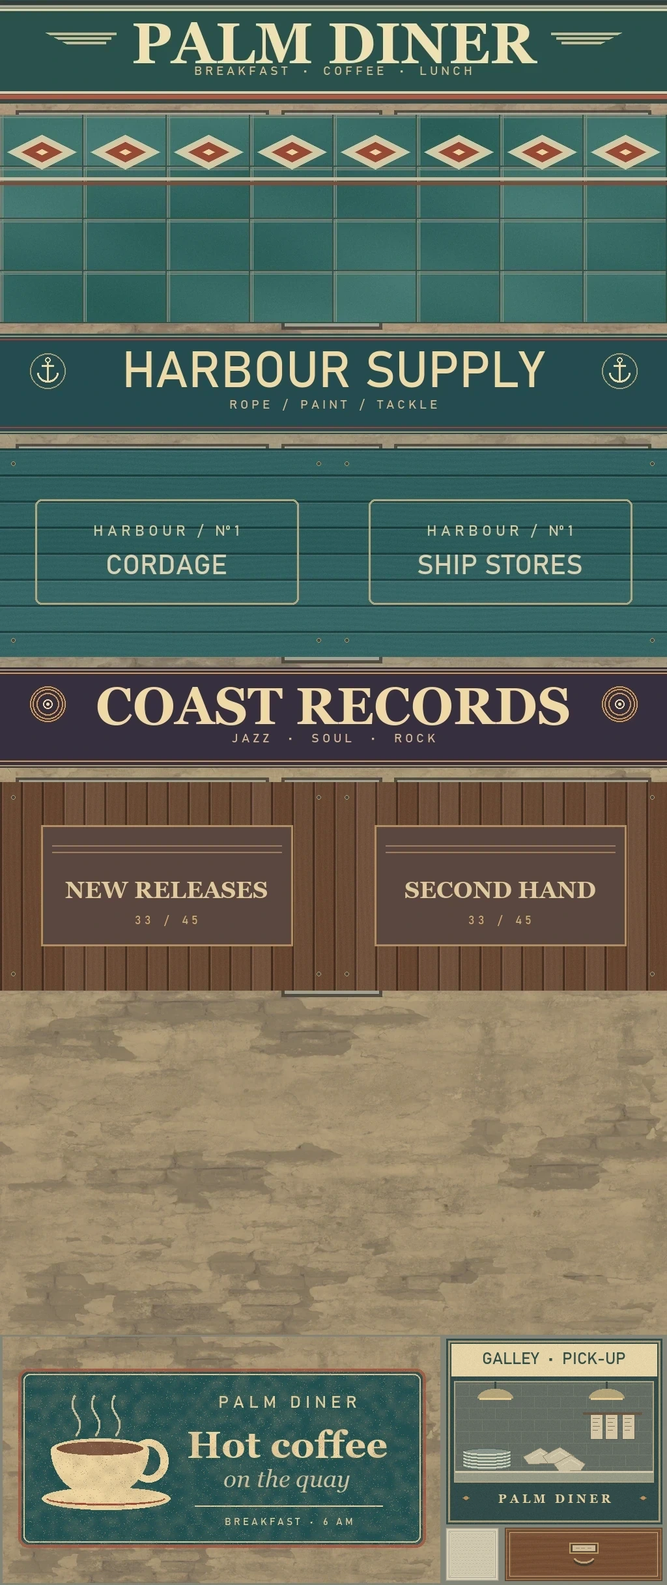
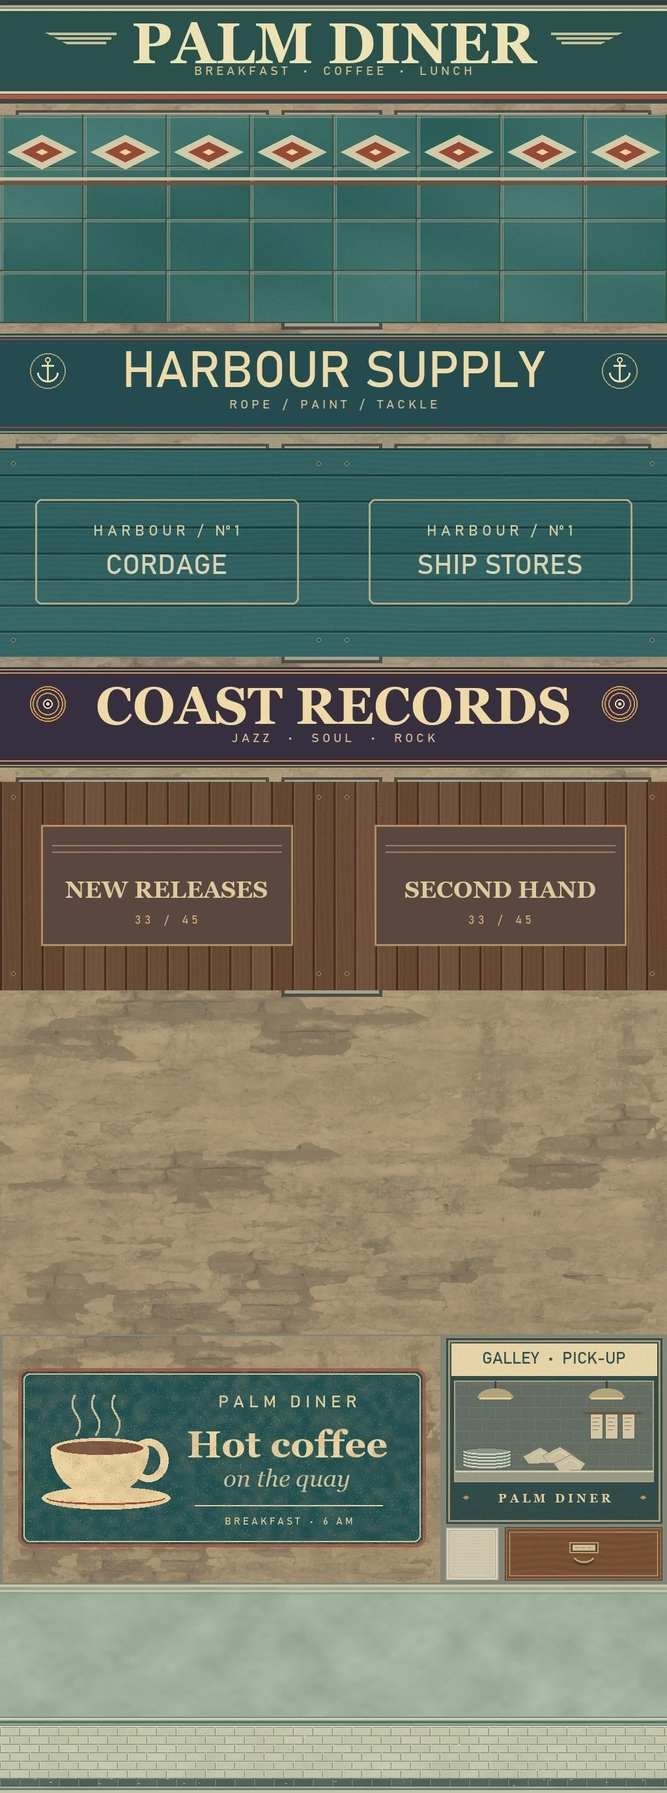
Finish the diner walls and alpine boulder shading

diff --git a/client/ReleaseNotes.tsx b/client/ReleaseNotes.tsx
@@ -6,16 +6,16 @@ const storageKey='eiserne-front-changelog';
 let acknowledgedInSession=false;
 const changes=[
  ['Island und Zeitreise','In der Lobby wählst du die Insel oder eine der drei historischen Karten. Kroenen ist in beiden Welten spielbar. Die übrigen Bonusfiguren und die Sprengrennwagen gehören zur Insel.'],
- ['Begehbare Harbour Road','Östlich der Radarstation liegen Palm Diner, Harbour Supply und Coast Records. Durch die offenen Eingänge gelangst du zu Sitznischen, Warenregalen und Plattenkisten. Die Läden haben eigene Böden, gerahmte Drucke, Verpackungen und Einrichtung. Bei Harbour Supply hängt ein illustrierter Musterkasten für Schiffszubehör samt aufgeschossener Leine. Im Palm Diner stehen Ketchup und Senf auf einem Emailletablett. Über dem Tresen hängt die illustrierte Frühstückskarte. Draußen greifen der petrolfarbene Fliesensockel und das neue Fassadenschild die Farben des Innenraums auf. Die Westwand trägt eine gemalte Kaffeereklame. Zur Hafenseite gibt es eine Küchenausgabe mit Emailleablage, belegten Broten und Wärmelampen. Coast Records hat einen Hörplatz mit Holzlautsprechern und dem eigens gestalteten Albumcover „Low Water“. An den Wänden hängen vier weitere illustrierte Cover und die dazugehörigen Schallplatten. Die Decke hat perforierte Akustikkassetten. Plattenkisten und Tresen haben Holzmaserung, Messinggriffe und Karteischilder. Harbour Supply und Coast Records haben eigene Fassadenschilder und beschriftete Schaufenstersockel. Pendelleuchten werfen warme Lichtkegel, und die Schaufenster haben profilierte Rahmen.'],
+ ['Begehbare Harbour Road','Östlich der Radarstation liegen Palm Diner, Harbour Supply und Coast Records. Durch die offenen Eingänge gelangst du zu Sitznischen, Warenregalen und Plattenkisten. Die Läden haben eigene Böden, gerahmte Drucke, Verpackungen und Einrichtung. Bei Harbour Supply hängt ein illustrierter Musterkasten für Schiffszubehör samt aufgeschossener Leine. Im Palm Diner stehen Ketchup und Senf auf einem Emailletablett. Meergrüne Wände mit einem cremefarbenen Fliesensockel umgeben den Gastraum. Über dem Tresen hängt die illustrierte Frühstückskarte. Draußen greifen der petrolfarbene Fliesensockel und das neue Fassadenschild die Farben des Innenraums auf. Die Westwand trägt eine gemalte Kaffeereklame. Zur Hafenseite gibt es eine Küchenausgabe mit Emailleablage, belegten Broten und Wärmelampen. Coast Records hat einen Hörplatz mit Holzlautsprechern und dem eigens gestalteten Albumcover „Low Water“. An den Wänden hängen vier weitere illustrierte Cover und die dazugehörigen Schallplatten. Die Decke hat perforierte Akustikkassetten. Plattenkisten und Tresen haben Holzmaserung, Messinggriffe und Karteischilder. Harbour Supply und Coast Records haben eigene Fassadenschilder und beschriftete Schaufenstersockel. Pendelleuchten werfen warme Lichtkegel, und die Schaufenster haben profilierte Rahmen.'],
  ['Post vom Hafenamt','Die Geschäfte auf Island haben neue Aushänge. Außen an der Ostwand des Diners kannst du am Nachlassschalter mit E einen Bescheid ziehen. Auf Island hat die MP 40 einen Katzenaufsatz mit gedämpftem Schuss.'],
  ['Licht, Küste und Inselstraße','Ein fotografierter Himmel bestimmt Tageslicht und Reflexionen. Nebel und Nacht haben eigene Himmelsverläufe. Asphalt und Pflaster dunkeln bei Nebel durch Feuchtigkeit ab. Die Harbour Road führt durch eine ausgeschilderte Hafeneinfahrt zum Anleger und zum Hafenmeisterbüro. Durch die geöffneten Fenster siehst du das Funkpult, den Hafenplan und die Gezeitentafel. Hinter dem Anleger liegen Hafenkräne und der Frachter Tern Sound mit sichtbaren Stahlplattenstößen, Tiefgangsmarken, Ladebaum und Festmacherleinen. Die Hafenkräne haben verglaste Kabinen, Gegengewichte, Wartungsstege und Seilrollen mit Haken. Am Ufer rollen gestaffelte Wellen mit schmalen Schaumkanten über nassen Sand, entlang der Straße wachsen Sträucher. Die Harbour Road hat einen Zebrastreifen, Straßenabläufe und einen gusseisernen Schachtdeckel mit Hafenanker und Schriftprägung. Gefaste Bordsteine, Pflasterrinnen und versetzte Betonplatten geben den Gehwegen ein eigenes Profil. Felsen haben verwitterte Oberflächen mit dunkleren Gezeitenzonen. Auf Hoch und Ultra zeichnen sich Lichtmuster im flachen Wasser ab. Werkstätten und Depots tragen Dachaufbauten, Fallrohre und verwitterte Sprossenfenster. Die oberen Ladebuchten der Küstenwachen haben beschriftete Stahlrolltore mit Führungsschienen. Die Eingangsschilder sind unter den Vordächern wieder lesbar. Die Radarplattform hat jetzt einen Fachwerkmast, Funkkästen und neu markierte Zugänge.'],
- ['Historische Architektur','In Köln und im Güterviertel findest du Bahnhofsuhren, eiserne Vordächer und gemauerte Gesimse. Der Deutzer Bahnhof hat ein neues Vordach, Wandlaternen und eine Abfahrtstafel am Vorplatz. Die Buchhandlung am Domhof hat Rundbogenfenster, Sandsteinrahmen, schmiedeeiserne Balkone und ein Schriftband zur Brücke. Im Erdgeschoss zeigen gerahmte Schaufenster Bücher, Kölner Ansichten und Karten. Nachts leuchten die Laternen, der Fahrplan und einzelne Fenster der umliegenden Häuser. Hinter den Straßen setzen sich die Häuserzeilen bis zum Horizont fort. Höhere Grafikprofile zeigen zusätzliche Gauben und Dachaufbauten. Die Kölner Eisenbahnbrücke hat ausgearbeitete Stahlbögen, Querverbände und genietete Anschlussbleche. Ihre beiden Gleise haben profilierte Schienen, blanke Laufflächen und gemaserte Schwellen. Auf der Brücke und im Güterviertel stehen hölzerne Güterwagen mit sichtbarem Fahrwerk, Stahlstreben und Puffern. Am Rheinufer stehen Kaimauern mit Hochwassermarken, Auslässen und Landungstreppen. Die Wasseroberfläche zeigt Strömungsrippel. Natursteinplatten, Rinnen und Fahrspuren verbinden Kino und Güterbahnhof. Beladene Handkarren stehen im Güterhof. Die Gleise haben profilierte Schienen mit blanken Laufflächen, Befestigungen und gemaserten Schwellen. An Gleis 2 erkennst du die Paketannahme der Feldpost an ihrer Backsteinfassade und dem gemalten Schild. Am Ende der Gleise stehen ein Bahnwasserturm und ein Wasserkran. Am Turm sind gemauerte Bögen, vertiefte Fugen und genietete Bleche sichtbar. Über dem Kölner Rheinufer ragen die beiden gotischen Domtürme mit Maßwerk und abgestuften Spitzen auf. In den Alpen liegen gestaffelte Kalkgrate mit Schneefeldern hinter den Kasernen. Unterhalb der Grate stehen Tannen mit unregelmäßigen Zweigen, sichtbaren Stämmen und einzelnen Schneespuren. Die Felshänge schließen an den Passboden an, und die Tannen stehen auf der Geländeoberfläche. Schneeverwehungen, Radspuren und festgetretene Wege verbinden die Kasernen mit der Passstraße. Auf den Dächern liegt ungleichmäßig verteilter Schnee. Roche-la-Croix hat eine befestigte Betonfront und eine stählerne Beobachtungsglocke. Am Eingang zeigen sich Spuren der Holzschalung, Frostschäden und französische Bauwerksmarkierungen. Darüber sitzen Sprossenfenster mit zurückgeklappten Stahlläden unter einem Kalksteingiebel.'],
+ ['Historische Architektur','In Köln und im Güterviertel findest du Bahnhofsuhren, eiserne Vordächer und gemauerte Gesimse. Der Deutzer Bahnhof hat ein neues Vordach, Wandlaternen und eine Abfahrtstafel am Vorplatz. Die Buchhandlung am Domhof hat Rundbogenfenster, Sandsteinrahmen, schmiedeeiserne Balkone und ein Schriftband zur Brücke. Im Erdgeschoss zeigen gerahmte Schaufenster Bücher, Kölner Ansichten und Karten. Nachts leuchten die Laternen, der Fahrplan und einzelne Fenster der umliegenden Häuser. Hinter den Straßen setzen sich die Häuserzeilen bis zum Horizont fort. Höhere Grafikprofile zeigen zusätzliche Gauben und Dachaufbauten. Die Kölner Eisenbahnbrücke hat ausgearbeitete Stahlbögen, Querverbände und genietete Anschlussbleche. Ihre beiden Gleise haben profilierte Schienen, blanke Laufflächen und gemaserte Schwellen. Auf der Brücke und im Güterviertel stehen hölzerne Güterwagen mit sichtbarem Fahrwerk, Stahlstreben und Puffern. Am Rheinufer stehen Kaimauern mit Hochwassermarken, Auslässen und Landungstreppen. Die Wasseroberfläche zeigt Strömungsrippel. Natursteinplatten, Rinnen und Fahrspuren verbinden Kino und Güterbahnhof. Beladene Handkarren stehen im Güterhof. Die Gleise haben profilierte Schienen mit blanken Laufflächen, Befestigungen und gemaserten Schwellen. An Gleis 2 erkennst du die Paketannahme der Feldpost an ihrer Backsteinfassade und dem gemalten Schild. Am Ende der Gleise stehen ein Bahnwasserturm und ein Wasserkran. Am Turm sind gemauerte Bögen, vertiefte Fugen und genietete Bleche sichtbar. Über dem Kölner Rheinufer ragen die beiden gotischen Domtürme mit Maßwerk und abgestuften Spitzen auf. In den Alpen liegen gestaffelte Kalkgrate mit Schneefeldern hinter den Kasernen. Unterhalb der Grate stehen Tannen mit unregelmäßigen Zweigen, sichtbaren Stämmen und einzelnen Schneespuren. Auf den Kalkblöcken am Pass liegt Schnee auf den oberen Flächen und in flachen Rinnen. Die Felshänge schließen an den Passboden an, und die Tannen stehen auf der Geländeoberfläche. Schneeverwehungen, Radspuren und festgetretene Wege verbinden die Kasernen mit der Passstraße. Auf den Dächern liegt ungleichmäßig verteilter Schnee. Roche-la-Croix hat eine befestigte Betonfront und eine stählerne Beobachtungsglocke. Am Eingang zeigen sich Spuren der Holzschalung, Frostschäden und französische Bauwerksmarkierungen. Darüber sitzen Sprossenfenster mit zurückgeklappten Stahlläden unter einem Kalksteingiebel.'],
  ['Uniformen und Hände','Jacken und Hosen haben sichtbare Nähte und Falten. Auf Island tragen Figuren Tarnstoff, geformte Schutzwesten und gebogene Schutzgläser. Die beiden Island-Uniformen haben eigene Gesichter mit unterschiedlichem Bartwuchs, geformte Rucksäcke und sichtbare Schultergurte. Helme und Stiefel werfen vollständigere Schatten. Kontaktschatten unter den Stiefeln drehen mit der Figur und folgen geneigtem Gelände. Stiefel rollen beim Gehen und Joggen sichtbarer am Boden ab. Beim Seitwärtslaufen bleibt die Schrittführung stabil. Zeitreise-Uniformen tragen flach anliegendes Gurtzeug und geformte Taschen. In der Egoansicht siehst du Gewebestruktur, Ärmelbündchen und Details an den Händen. Hautfalten, Knöchel und abgenutzte Bündchen reflektieren unterschiedlich. Warme Raumlampen beleuchten auch Hände und Ärmel.'],
  ['Union-Lichtspiele','Im Güterviertel von Operation Abendrot steht am Platz der Alten Mühle das begehbare Kino mit Art-déco-Portal und KINO-Schriftpfeiler. Nachts sind die Schrift und der Eingang beleuchtet. Vor der Tür greift ein bündiges Terrazzo-Medaillon das Fächermotiv des Portals auf. Sechs historische Propagandaplakate hängen in den Schaukästen. Im Saal rahmt ein geraffter Samtvorhang mit Messingsims das Archivfoto von 1935. Vier Sitzreihen haben Polsterrücken, über ihnen gliedern Deckenrippen den Raum.'],
  ['Zielfernrohre und historische Ausrüstung','Das Gewehr 43 mit ZF4 ergänzt den Karabiner 98k mit ZF39. Halte die rechte Maustaste für den vierfachen Zoom. Du kannst beim Zielen mit der linken Maustaste schießen.'],
  ['Zeichen und Auszeichnungen','In Köln und im Güterviertel findest du historische Luftschutzzeichen. Nach historischen Gefechten zeigt die Ergebnisansicht verdiente Auszeichnungen.'],
  ['Lobby und Fahrparcours','Die Spielauswahl nutzt auf großen Bildschirmen mehr Breite. Die Einsatzsteuerung sitzt unten. Im Inseltraining führt der Rennwagenparcours an der Küste durch eine Unterführung.'],
- ['Flüssigeres Umsehen','Beim Blick auf geschlossene Ladenwände begrenzt der Renderer die Sichttiefe auf den Raum und spart verdeckte Teile der Insel aus. In „Hoch“ und „Ultra“ beschränkt das Spiel die Schattenkarte auch auf der Straße auf den Ausschnitt, den die Kamera und die Waffe benötigen. In „Hoch“ und „Ultra“ wird statische Raumausstattung außerhalb des Bilds übersprungen. Sichtbare Schatten bleiben erhalten. Der Modus „Flüssig“ passt die interne Auflösung an die GPU-Auslastung an. Leuchtspuren werden gemeinsam gezeichnet. Bei Treffereffekten, Rauch und Mündungsblitzen überträgt das Spiel nur sichtbare Partikeldaten. Staub und Metallfunken sehen unterschiedlich aus. Explosionen zeigen einen kurzen Feuerblitz und Staub, der sich ausbreitet. Zerbrechende Scheiben streuen unterschiedlich geformte Splitter, die zusammen gezeichnet werden. Uniformteile werden gemeinsam gezeichnet. Entfernte Standardfiguren nutzen beim normalen Blick ein leichteres Körpermodell. Hoch und Ultra richten den Wechsel nach der tatsächlichen Renderauflösung. Die offene Visierung behält diese Abstufung, das Zielfernrohr zeigt das Vollmodell. Entfernte Deckungskisten bekommen in „Hoch“ einfachere Schatten, auch wenn direkt vor dir eine Kiste steht. Kantenglättung und Farbausgabe teilen sich einen Renderdurchlauf. Glatte Bildflächen bekommen keine falschen Kantenmarkierungen mehr. Das Spiel spart dabei einen HDR-Zwischenpuffer und zwei überflüssige Löschvorgänge in der Kantenglättung. Die Umgebungsverdeckung verwendet kleinere Zwischenpuffer und berechnet die Tiefenproben mit weniger GPU-Aufwand. Auf „Hoch“ benötigt der Normalenpuffer bei 1080p etwa 2 MiB weniger Grafikspeicher. Innenraumschilder teilen sich pro Karte eine Textur. Die Ausrichtung von Armen und Händen bei Spielfiguren braucht weniger Matrixberechnungen. Beim Werfen und Kriechen werden nur die betroffenen Gelenkketten aktualisiert. Überschriebene Kopf- und Brustbewegungen werden bei Standardfiguren nur einmal berechnet. Der Himmel kann den Farbpuffer direkt füllen. Der Tiefenpuffer liegt im Renderziel der Spielwelt. Punktlichter werden nur innerhalb ihrer Reichweite berechnet. Auf sonnenabgewandten Flächen entfallen unnötige Schattenabfragen. Auf unterstützten Systemen bündelt der Renderer opake Fassaden auf Island in „Hoch“ und „Ultra“. Zierglasscheiben innerhalb massiver Fabrikwände entfallen beim Rendern. Beim Blick auf geschlossene Ladenwände entfällt auch der Himmelsdurchlauf. Die Abschussliste und die persönliche Statusanzeige werden nur bei sichtbaren Änderungen neu aufgebaut. Die Highlight-Aufzeichnung verwendet vorhandene Netzwerk-Spielstände und vermeidet vollständige Kopien. Netzwerk-Updates übernehmen unveränderte Objekte aus dem vorherigen Spielstand. Bei unveränderten Innenräumen bleiben Türen und Kollisionsdaten im Speicher. Gestikulierende Bewohner finden ihre Fingergelenke jetzt ohne erneute Suche im Figurenmodell. Beim Wechsel zwischen Joggen und Sprinten behalten Figuren ihre Schrittphase. Die Offiziersmützen auf den Zeitreise-Karten sitzen tiefer auf der Stirn und haben eine gewölbte Krone. Beim Berechnen des Kamerasichtfelds entfallen doppelte Aktualisierungen am sichtbaren Waffenmodell. Die Munitionsanzeige folgt der Waffe, ohne das Seitenlayout bei jeder Bewegung neu zu berechnen. Die Bewegung prüft Hindernisse nur auf Achsen, auf denen sich die Figur tatsächlich bewegt. Das Spiel erstellt abgelegte Figuren mit weniger Rechenarbeit. Bots können den zuvor versperrten Ausrüstungspunkt auf Island erreichen. HUD und Menüs bleiben scharf.'],
+ ['Flüssigeres Umsehen','Beim Blick auf geschlossene Ladenwände begrenzt der Renderer die Sichttiefe auf den Raum und spart verdeckte Teile der Insel aus. In „Hoch“ und „Ultra“ beschränkt das Spiel die Schattenkarte auch auf der Straße auf den Ausschnitt, den die Kamera und die Waffe benötigen. In „Hoch“ und „Ultra“ wird statische Raumausstattung außerhalb des Bilds übersprungen. Sichtbare Schatten bleiben erhalten. Der Modus „Flüssig“ passt die interne Auflösung an die GPU-Auslastung an. Leuchtspuren werden gemeinsam gezeichnet. Bei Treffereffekten, Rauch und Mündungsblitzen überträgt das Spiel nur sichtbare Partikeldaten. Staub und Metallfunken sehen unterschiedlich aus. Explosionen zeigen einen kurzen Feuerblitz und Staub, der sich ausbreitet. Zerbrechende Scheiben streuen unterschiedlich geformte Splitter, die zusammen gezeichnet werden. Uniformteile werden gemeinsam gezeichnet. Entfernte Standardfiguren nutzen beim normalen Blick ein leichteres Körpermodell. Hoch und Ultra richten den Wechsel nach der tatsächlichen Renderauflösung. Die offene Visierung behält diese Abstufung, das Zielfernrohr zeigt das Vollmodell. Entfernte Deckungskisten bekommen in „Hoch“ einfachere Schatten, auch wenn direkt vor dir eine Kiste steht. Kantenglättung und Farbausgabe teilen sich einen Renderdurchlauf. Glatte Bildflächen bekommen keine falschen Kantenmarkierungen mehr. Die Kantenmaske benötigt bei 1080p rund 4 MiB weniger Grafikspeicher. Das Spiel spart dabei einen HDR-Zwischenpuffer und zwei überflüssige Löschvorgänge in der Kantenglättung. Die Umgebungsverdeckung verwendet kleinere Zwischenpuffer und berechnet die Tiefenproben mit weniger GPU-Aufwand. Auf „Hoch“ benötigt der Normalenpuffer bei 1080p etwa 2 MiB weniger Grafikspeicher. Innenraumschilder teilen sich pro Karte eine Textur. Die Ausrichtung von Armen und Händen bei Spielfiguren braucht weniger Matrixberechnungen. Beim Werfen und Kriechen werden nur die betroffenen Gelenkketten aktualisiert. Überschriebene Kopf- und Brustbewegungen werden bei Standardfiguren nur einmal berechnet. Der Himmel kann den Farbpuffer direkt füllen. Der Tiefenpuffer liegt im Renderziel der Spielwelt. Punktlichter werden nur innerhalb ihrer Reichweite berechnet. Auf sonnenabgewandten Flächen entfallen unnötige Schattenabfragen. Auf unterstützten Systemen bündelt der Renderer opake Fassaden auf Island in „Hoch“ und „Ultra“. Zierglasscheiben innerhalb massiver Fabrikwände entfallen beim Rendern. Beim Blick auf geschlossene Ladenwände entfällt auch der Himmelsdurchlauf. Die Abschussliste und die persönliche Statusanzeige werden nur bei sichtbaren Änderungen neu aufgebaut. Die Highlight-Aufzeichnung verwendet vorhandene Netzwerk-Spielstände und vermeidet vollständige Kopien. Netzwerk-Updates übernehmen unveränderte Objekte aus dem vorherigen Spielstand. Bei unveränderten Innenräumen bleiben Türen und Kollisionsdaten im Speicher. Gestikulierende Bewohner finden ihre Fingergelenke jetzt ohne erneute Suche im Figurenmodell. Beim Wechsel zwischen Joggen und Sprinten behalten Figuren ihre Schrittphase. Die Offiziersmützen auf den Zeitreise-Karten sitzen tiefer auf der Stirn und haben eine gewölbte Krone. Der Offizier trägt jetzt einen gefalteten Hemdkragen, eine Krawatte und eine blaugraue Jacke. Beim Berechnen des Kamerasichtfelds entfallen doppelte Aktualisierungen am sichtbaren Waffenmodell. Die Munitionsanzeige folgt der Waffe, ohne das Seitenlayout bei jeder Bewegung neu zu berechnen. Die Bewegung prüft Hindernisse nur auf Achsen, auf denen sich die Figur tatsächlich bewegt. Das Spiel erstellt abgelegte Figuren mit weniger Rechenarbeit. Bots können den zuvor versperrten Ausrüstungspunkt auf Island erreichen. HUD und Menüs bleiben scharf.'],
 ] as const;
 
 export function ReleaseNotes(){

diff --git a/client/islandStreet.ts b/client/islandStreet.ts
@@ -97,10 +97,11 @@ export function addIslandStreet(scene:T.Group){
   const cover=solid(lid,57.2,.071,-24.85,pavingMaterial);cover.rotation.x=-Math.PI/2;
   const atlas=loader.load(base+'shops.webp');atlas.colorSpace=T.SRGBColorSpace;atlas.anisotropy=4;
   const facade=new T.MeshStandardMaterial({map:atlas,roughness:.93});
-  const facadeV=(originalV:number)=>(384+2048*originalV)/2432;
+  const atlasV=(pixelY:number)=>1-pixelY/2752;
+  const facadeV=(originalV:number)=>atlasV((1-originalV)*2048);
   function drawer(x:number,y:number,z:number,width:number,height:number,yaw:number){
     const geometry=new T.PlaneGeometry(width,height),uv=geometry.getAttribute('uv');
-    for(let i=0;i<uv.count;i++)uv.setXY(i,(776+240*uv.getX(i))/1024,1-(2425-80*uv.getY(i))/2432);
+    for(let i=0;i<uv.count;i++)uv.setXY(i,(776+240*uv.getX(i))/1024,atlasV(2425-80*uv.getY(i)));
     const panel=solid(geometry,x,y,z,facade);panel.rotation.y=yaw;panel.castShadow=true;
   }
   const prints=loader.load(base+'interior-prints.webp');
@@ -149,9 +150,15 @@ export function addIslandStreet(scene:T.Group){
         const wall=cuboid(x,y,z,w,h,d,facade),uv=wall.geometry.getAttribute('uv');
         for(let face=0;face<6;face++)for(let n=0;n<4;n++){
           const i=face*4+n,lettering=role==='sign'&&face===(s.front===1?4:5);
+          const sideLining=role==='side'&&face===(x<s.x?0:1);
           if(s.id==='diner'&&role==='side'&&x<s.x&&face===1){
             // The west wall carries the full mural. The harbour side has the service hatch.
-            uv.setXY(i,(5+670*uv.getX(i))/1024,1-(2428-376*uv.getY(i))/2432);
+            uv.setXY(i,(5+670*uv.getX(i))/1024,atlasV(2428-376*uv.getY(i)));
+          }else if(s.id==='diner'&&(sideLining||role==='back'&&face===4)){
+            // A continuous tile dado wraps the dining room. Keep its physical tile
+            // size on the shorter side walls, and preserve each outer wall finish.
+            const portion=sideLining?s.d/s.w:1,start=sideLining&&x>s.x?1-portion:0;
+            uv.setXY(i,.001+.998*(start+portion*uv.getX(i)),atlasV(2746-309*uv.getY(i)));
           }else{
             uv.setXY(i,.001+.998*uv.getX(i),facadeV(lettering?(3-index+.70+.298*uv.getY(i))/4:(.003+.99*uv.getY(i))/4));
           }
@@ -172,7 +179,7 @@ export function addIslandStreet(scene:T.Group){
           const x0=width*(col/cols-.5),x1=x0+width/cols,z0=depth*(row/rows-.5),z1=z0+depth/rows;
           const n=points.length/3;
           points.push(x0,0,z0,x1,0,z0,x1,0,z1,x0,0,z1);indices.push(n,n+1,n+2,n,n+2,n+3);
-          uv.push(685/1024,1-2345/2432,764/1024,1-2345/2432,764/1024,1-2424/2432,685/1024,1-2424/2432);
+          uv.push(685/1024,atlasV(2345),764/1024,atlasV(2345),764/1024,atlasV(2424),685/1024,atlasV(2424));
         }
         const lining=new T.BufferGeometry();lining.setIndex(indices);
         lining.setAttribute('position',new T.Float32BufferAttribute(points,3));lining.setAttribute('uv',new T.Float32BufferAttribute(uv,2));
@@ -342,11 +349,16 @@ export function addIslandStreet(scene:T.Group){
       }
     }
     const back=-s.d/2+.27;
-    const panel=detail(0,.59,back,s.w-.48,1.18,.055,paintedBoards);
-    const panelUV=panel.geometry.getAttribute('uv');
-    for(let i=0;i<panelUV.count;i++)panelUV.setX(i,panelUV.getX(i)*s.w/1.6);
+    if(s.id==='diner'){
+      detail(0,.12,back,s.w-.48,.07,.061,iron);
+    }else{
+      const panel=detail(0,.59,back,s.w-.48,1.18,.055,paintedBoards);
+      const panelUV=panel.geometry.getAttribute('uv');
+      for(let i=0;i<panelUV.count;i++)panelUV.setX(i,panelUV.getX(i)*s.w/1.6);
+    }
     for(const side of [-1,1]){
-      detail(side*(s.w/2-.27),.59,0,.055,1.18,s.d-.52,wood);
+      if(s.id==='diner')detail(side*(s.w/2-.27),.12,0,.063,.07,s.d-.52,iron);
+      else detail(side*(s.w/2-.27),.59,0,.055,1.18,s.d-.52,wood);
       detail(side*3.85,2.3,back+.05,1.46,1.46,.08,iron);
       const artwork=new T.PlaneGeometry(1.32,1.32),uv=artwork.getAttribute('uv');
       const cell=index*2+(side===1?1:0);
@@ -396,7 +408,7 @@ export function addIslandStreet(scene:T.Group){
           // Fired tile bulkhead and separate steel expansion joints under the enamel sign.
           // The original facade atlas also supplies the lettering, so both share its batch.
           const tiles=new T.PlaneGeometry(frameWidth/3,.59),uv=tiles.getAttribute('uv');
-          for(let i=0;i<uv.count;i++)uv.setXY(i,.002+.996*uv.getX(i),1-(494-316*uv.getY(i))/2432);
+          for(let i=0;i<uv.count;i++)uv.setXY(i,.002+.996*uv.getX(i),atlasV(494-316*uv.getY(i)));
           solid(tiles,center,.525,frontZ+.085,facade).castShadow=true;
           cuboid(center-frameWidth/6+.011,.525,frontZ+.089,.023,.60,.033,chrome).castShadow=false;
           continue;
@@ -407,7 +419,7 @@ export function addIslandStreet(scene:T.Group){
           // of the shop's own atlas strip for each window, viewed from the street.
           const plaque=new T.PlaneGeometry(panelWidth-.055,.40),uv=plaque.getAttribute('uv');
           const u=direction<0?.502:.002;
-          for(let i=0;i<uv.count;i++)uv.setXY(i,u+.496*uv.getX(i),1-(index*512+432-200*uv.getY(i))/2432);
+          for(let i=0;i<uv.count;i++)uv.setXY(i,u+.496*uv.getX(i),atlasV(index*512+432-200*uv.getY(i)));
           const face=solid(plaque,center,.477,frontZ+s.front*.093,facade);
           face.rotation.y=Math.PI;face.castShadow=true;
           continue;
@@ -424,7 +436,7 @@ export function addIslandStreet(scene:T.Group){
       const galleyX=s.x+s.w/2,galleyZ=s.z+.62;
       const hatch=new T.PlaneGeometry(2.15,1.67),hatchUV=hatch.getAttribute('uv');
       for(let i=0;i<hatchUV.count;i++)
-        hatchUV.setXY(i,(686+330*hatchUV.getX(i))/1024,1-(2338-283*hatchUV.getY(i))/2432);
+        hatchUV.setXY(i,(686+330*hatchUV.getX(i))/1024,atlasV(2338-283*hatchUV.getY(i)));
       const galley=solid(hatch,galleyX+.024,1.84,galleyZ,facade);
       galley.rotation.y=Math.PI/2;galley.castShadow=true;
       for(const side of [-1,1]){

diff --git a/client/rockGeometry.ts b/client/rockGeometry.ts
@@ -2,15 +2,15 @@ import * as T from 'three';
 import {rockHull,type RockBounds} from '../shared/rocks.ts';
 
 export function createRockGeometry(bounds:RockBounds,smoothEdges=false) {
-  const hull=rockHull(bounds),positions:number[]=[],uvs:number[]=[],colors:number[]=[];
+  const hull=rockHull(bounds),positions:number[]=[],uvs:number[]=[],colors:number[]=[],snowCover:number[]=[];
   const color=new T.Color(),vertexIds:number[]=[];
   const stone=new T.Color('#a1a5a1'),frost=new T.Color('#f4f5f0');
   const salt=new T.Color('#f6f2e8'),damp=new T.Color('#a0a99c');
-  const average=smoothEdges?hull.vertices.map(()=>new T.Vector3()):undefined;
+  const average=hull.vertices.map(()=>new T.Vector3());
   for(const face of hull.faces){
     const a=new T.Vector3(...hull.vertices[face[0]]),b=new T.Vector3(...hull.vertices[face[1]]),c=new T.Vector3(...hull.vertices[face[2]]);
     const normal=b.clone().sub(a).cross(c.clone().sub(a)).normalize();
-    if(average)for(const index of face)average[index].add(normal);
+    for(const index of face)average[index].add(normal);
     const axis=Math.abs(normal.y)>.6?'top':Math.abs(normal.x)>Math.abs(normal.z)?'side':'front';
     for(let i=1;i<face.length-1;i++)for(const index of [face[0],face[i],face[i+1]]){
       const [x,y,z]=hull.vertices[index];positions.push(x,y,z);vertexIds.push(index);
@@ -21,9 +21,14 @@ export function createRockGeometry(bounds:RockBounds,smoothEdges=false) {
         const u=top?x:(normal.z*x-normal.x*z)/horizontal;
         uvs.push(u/4.8+bounds.x*.31,(top?z:y)/4.8+bounds.z*.27);
       }else uvs.push((axis==='side'?z:x)/2.8,(axis==='top'?z:y)/2.8);
-      const snow=T.MathUtils.smoothstep(normal.y,.45,.85)*T.MathUtils.smoothstep(y/bounds.h,-.05,.3);
       if(smoothEdges)color.copy(damp).lerp(salt,T.MathUtils.smoothstep(y/bounds.h,-.45,.22));
-      else color.copy(stone).lerp(frost,snow);
+      else{
+        const shoulder=T.MathUtils.smoothstep(y/bounds.h,-.03,.43);
+        const wind=.08*normal.x+.11*Math.sin((x+bounds.x)*.43+(z+bounds.z)*.36);
+        const snow=T.MathUtils.clamp(.91*T.MathUtils.smoothstep(normal.y,.28,.9)*shoulder+.23*shoulder+wind,0,1);
+        color.copy(stone).lerp(frost,snow);
+        snowCover.push(snow);
+      }
       colors.push(color.r,color.g,color.b);
     }
   }
@@ -31,15 +36,45 @@ export function createRockGeometry(bounds:RockBounds,smoothEdges=false) {
   geometry.setAttribute('position',new T.Float32BufferAttribute(positions,3));
   geometry.setAttribute('uv',new T.Float32BufferAttribute(uvs,2));
   geometry.setAttribute('color',new T.Float32BufferAttribute(colors,3));
+  if(!smoothEdges)geometry.setAttribute('boulderSnow',new T.Float32BufferAttribute(snowCover,1));
   geometry.computeVertexNormals();
-  if(average){
-    const normals=geometry.getAttribute('normal'),blended=new T.Vector3();
-    average.forEach(normal=>normal.normalize());
-    for(let i=0;i<vertexIds.length;i++){
-      blended.fromBufferAttribute(normals,i).lerp(average[vertexIds[i]],.42).normalize();
-      normals.setXYZ(i,blended.x,blended.y,blended.z);
-    }
+  const normals=geometry.getAttribute('normal'),blended=new T.Vector3();
+  average.forEach(normal=>normal.normalize());
+  for(let i=0;i<vertexIds.length;i++){
+    blended.fromBufferAttribute(normals,i).lerp(average[vertexIds[i]],smoothEdges?.42:.27).normalize();
+    normals.setXYZ(i,blended.x,blended.y,blended.z);
   }
   geometry.computeBoundingSphere();
   return geometry;
+}
+
+export function alpineBoulderMaterial(stone:T.MeshStandardMaterial,snow:T.MeshStandardMaterial){
+  const material=stone.clone();
+  material.onBeforeCompile=shader=>{
+    shader.uniforms.boulderSnowMap={value:snow.map};
+    const varyings='varying float vBoulderSnow; varying vec3 vBoulderPosition;\n';
+    shader.vertexShader='attribute float boulderSnow;\n'+varyings+shader.vertexShader;
+    shader.vertexShader=shader.vertexShader.replace('#include <begin_vertex>',
+      '#include <begin_vertex>\nvBoulderSnow=boulderSnow; vBoulderPosition=(modelMatrix*vec4(position,1.0)).xyz;');
+    shader.fragmentShader='uniform sampler2D boulderSnowMap;\n'+varyings+shader.fragmentShader;
+    shader.fragmentShader=shader.fragmentShader.replace('#include <map_fragment>',`
+      vec3 stoneGrain=texture2D(map,vMapUv).rgb;
+      vec3 settledSnow=texture2D(boulderSnowMap,vMapUv*1.19).rgb;
+      float drift=smoothstep(.37,.71,vBoulderSnow+(stoneGrain.g-.22)*.45);
+      float layers=sin(vBoulderPosition.y*8.7+vBoulderPosition.x*.49+sin(vBoulderPosition.z*.57)*1.3+stoneGrain.g*2.0);
+      float ledge=1.0-.23*smoothstep(.77,.98,layers);
+      vec3 limestone=(stoneGrain*vec3(1.18,1.21,1.26)+vec3(.13,.14,.15))*ledge;
+      diffuseColor.rgb*=mix(limestone,mix(settledSnow,vec3(.94,.97,1.),.33),drift);`);
+    shader.fragmentShader=shader.fragmentShader.replace(
+      '#include <normal_fragment_maps>',
+      '#include <normal_fragment_maps>\nnormal=normalize(mix(normal,normalize(vNormal),drift*.59));'
+    );
+    // Bright snow reflects the same skylight back into sheltered cliff faces.
+    shader.fragmentShader=shader.fragmentShader.replace('#include <lights_fragment_end>',`
+      #include <lights_fragment_end>
+      #if NUM_HEMI_LIGHTS > 0
+        reflectedLight.indirectDiffuse+=diffuseColor.rgb*hemisphereLights[0].skyColor*.21;
+      #endif`);
+  };
+  return material;
 }

diff --git a/client/residentAppearance.ts b/client/residentAppearance.ts
@@ -4,7 +4,7 @@ import {residentProfile,type ResidentLook} from '../shared/residentProfiles';
 const looks:Record<ResidentLook,{build:[number,number,number];face:[number,number,number];jacket:string;trousers:string;boots:string}>={
  bruiser:{build:[1.23,1.04,1.17],face:[1.12,.95,1.06],jacket:'#bf6929',trousers:'#263643',boots:'#29241e'},
  veteran:{build:[1.02,.94,1.05],face:[.94,1.03,.99],jacket:'#879254',trousers:'#514433',boots:'#332b25'},
- officer:{build:[.89,1.10,.95],face:[.95,1.08,.97],jacket:'#33668f',trousers:'#233244',boots:'#202126'},
+ officer:{build:[.89,1.10,.95],face:[.95,1.08,.97],jacket:'#445d70',trousers:'#233244',boots:'#202126'},
  showman:{build:[1.14,.98,1.13],face:[1.05,.96,1.08],jacket:'#a74576',trousers:'#62304c',boots:'#e2d4b2'},
 };
 
@@ -30,8 +30,31 @@ export function createResidentAppearance(root:T.Group,body:T.Object3D,id:string)
   }
   box(aviator?gold:dark,0,1.698,-.124,.028,.004,.006,'head');
  }
- const neckline=new T.Shape();neckline.moveTo(-.065,.11);neckline.lineTo(.065,.11);neckline.lineTo(.032,-.12);neckline.lineTo(-.032,-.12);neckline.closePath();
- const shirt=mesh(new T.ShapeGeometry(neckline),material(profile.look==='showman'?'#e6d6ab':'#c9bda1'),0,1.34,-.153,'body');shirt.rotation.y=Math.PI;shirt.scale.set(w,h,1);
+ if(profile.look==='officer'){
+  // Shape the visible shirt into the jacket opening, with folded collar tips
+  // and a narrow tied front. All pieces share one coloured garment draw.
+  const positions:number[]=[],colors:number[]=[];
+  type Point=[number,number,number];
+  function panel(color:string,a:Point,b:Point,c:Point){
+   const tint=new T.Color(color);
+   for(const p of [a,b,c]){positions.push(...p);colors.push(tint.r,tint.g,tint.b);}
+  }
+  const topL:Point=[-.071,.092,.008],topR:Point=[.071,.092,.008],bottom:Point=[0,-.104,-.006];
+  panel('#c4bfae',topL,topR,bottom);
+  panel('#303944',[0,.061,-.010],[.017,.043,-.011],[0,.018,-.016]);
+  panel('#46505b',[0,.061,-.010],[0,.018,-.016],[-.016,.043,-.011]);
+  panel('#39424b',[0,.025,-.014],[.018,-.055,-.013],[0,-.092,-.011]);
+  panel('#46505b',[0,.025,-.014],[0,-.092,-.011],[-.018,-.055,-.013]);
+  panel('#ded9c9',topL,[0,.065,-.013],[-.032,.019,-.014]);
+  panel('#cfcab9',[0,.065,-.013],topR,[.031,.019,-.014]);
+  const geometry=new T.BufferGeometry();geometry.setAttribute('position',new T.Float32BufferAttribute(positions,3));
+  geometry.setAttribute('color',new T.Float32BufferAttribute(colors,3));geometry.computeVertexNormals();
+  const textile=material('#ffffff');textile.vertexColors=true;textile.roughness=.96;
+  const shirt=mesh(geometry,textile,0,1.365,-.153,'body');shirt.name='resident-officer-shirt-and-tie';shirt.scale.set(w,h,1);
+ }else{
+  const neckline=new T.Shape();neckline.moveTo(-.065,.11);neckline.lineTo(.065,.11);neckline.lineTo(.032,-.12);neckline.lineTo(-.032,-.12);neckline.closePath();
+  const shirt=mesh(new T.ShapeGeometry(neckline),material(profile.look==='showman'?'#e6d6ab':'#c9bda1'),0,1.34,-.153,'body');shirt.rotation.y=Math.PI;shirt.scale.set(w,h,1);
+ }
  box(leather,0,.94,-.17,.39,.045,.06);box(gold,0,.94,-.207,.073,.055,.018);
  if(profile.look==='bruiser'){
   const hair=material('#24201e');
@@ -60,6 +83,12 @@ export function createResidentAppearance(root:T.Group,body:T.Object3D,id:string)
   // back above it instead of balancing on top of the scalp.
   const capProfile=[[.123,-.050],[.124,-.016],[.153,.012],[.161,.054],[.147,.077],[.074,.088],[0,.088]];
   const crown=new T.LatheGeometry(capProfile.map(([radius,y])=>new T.Vector2(radius,y)),20);
+  const crownColors:number[]=[],ringShade=[.40,.49,.83,.99,1.04,1.02,1];
+  for(let n=0;n<crown.attributes.position.count;n++){
+   const fold=ringShade[n%capProfile.length];
+   crownColors.push(fold,fold,fold);
+  }
+  crown.setAttribute('color',new T.Float32BufferAttribute(crownColors,3));cloth.vertexColors=true;
   const cap=mesh(crown,cloth,0,1.728,.012);cap.name='resident-oversized-cap';
   cap.scale.set(.88,1,1.08);cap.rotation.set(.09,0,.045);
   const visor=ball(dark,0,1.698,-.111,.116,.012,.090);visor.rotation.x=-.14;

diff --git a/client/scene.ts b/client/scene.ts
@@ -47,7 +47,7 @@ import {createCologneBridgeSteel} from './cologneBridge';
 import {cologneBridgeTracks} from './freightStreet';
 import {createMaterials,projectBoxUVs} from './materials.ts';
 import {addArchitecture,facadeColor} from './architecture.ts';
-import {createRockGeometry} from './rockGeometry.ts';
+import {alpineBoulderMaterial,createRockGeometry} from './rockGeometry.ts';
 import {createViewmodel,projectWeaponMuzzle} from './viewmodel.ts';
 import {createFallbackHands} from './fallbackHands.ts';
 import {RoundedBoxGeometry} from 'three/examples/jsm/geometries/RoundedBoxGeometry.js';
@@ -137,6 +137,7 @@ export function createScene(
     return mesh;
   }
   const river=mapId==='cologne'?createRiver(scene):undefined;
+  const alpineBoulders=mapId==='alpine'?alpineBoulderMaterial(mat('#818783'),mat('#deded4')):undefined;
   if(mapId==='cologne'){
     cube(-53,-.2,0,46,.4,150,'#77766b');cube(53,-.2,0,46,.4,150,'#77766b');
     scene.add(createCologneBridgeSteel(),cologneBridgeTracks());
@@ -153,7 +154,7 @@ export function createScene(
   const coverVisuals:{box:(typeof boxes)[number];mesh:T.Mesh}[]=[];
   for (const b of boxes){
     if(b.kind==='interior'||detailedPropKinds.has(b.kind??''))continue;
-    if(b.kind==='rock'){const rock=new T.Mesh(createRockGeometry(b,island),mat(island?'#858a79':'#818783'));rock.position.set(b.x,b.y,b.z);rock.castShadow=true;rock.receiveShadow=true;scene.add(rock);continue;}
+    if(b.kind==='rock'){const rock=new T.Mesh(createRockGeometry(b,island),alpineBoulders??mat(island?'#858a79':'#818783'));rock.position.set(b.x,b.y,b.z);rock.castShadow=true;rock.receiveShadow=true;scene.add(rock);continue;}
     const buildingIndex=buildings.findIndex(item=>Math.abs(b.x-item.x)<=item.w/2+.1&&Math.abs(b.z-item.z)<=item.d/2+.1);
     const visual=cube(
       b.x,

diff --git a/client/graphics.ts b/client/graphics.ts
@@ -50,8 +50,10 @@ export function createGraphics(renderer: T.WebGLRenderer, scene: T.Scene,
   const bloom = new UnrealBloomPass(new T.Vector2(1, 1), .075, .3, 1.65);
   const smaa = new SMAAPass(1, 1);
   skipRedundantSmaaClears(smaa);
-  // SMAA reads only red and green edge flags. RG16F preserves their filtered values.
+  // The edge detector writes two binary flags. RG8 stores both endpoints exactly;
+  // the weights pass still uses the original linear filtering and half-float output.
   smaa.edgesRT.texture.format = T.RGFormat;
+  smaa.edgesRT.texture.type = T.UnsignedByteType;
   const blendOutput='gl_FragColor = SMAANeighborhoodBlendingPS( vUv, vOffset, tColor, tDiffuse );';
   // Keep the old half-float write precision before converting HDR to display color.
   smaa.materialBlend.fragmentShader=smaa.materialBlend.fragmentShader.replace(blendOutput,`${blendOutput}

diff --git a/tests/harbour-road-battle.py b/tests/harbour-road-battle.py
@@ -262,7 +262,11 @@ with sync_playwright() as pw:
     width,height = map(int,os.environ.get('HARBOUR_VIEWPORT','1280x720').split('x'))
     quality=os.environ.get('BATTLE_GRAPHICS','performance')
     assert quality in ('auto','performance','high','ultra'),quality
+    difficulty=os.environ.get('HARBOUR_DIFFICULTY','easy')
+    assert difficulty in ('easy','normal','hard'),difficulty
     quality_suffix=('' if quality=='performance' else '-'+quality)+('-fixed-turns' if FIXED_TURNS else '')
+    if difficulty!='easy':
+        quality_suffix+='-'+difficulty
     if DRAW_PROFILE:
         quality_suffix+='-draw-profile'
     if GPU_PROFILE:
@@ -363,7 +367,7 @@ with sync_playwright() as pw:
         page.get_by_label('Gegner',exact=True).select_option(str(enemies))
     else:
         page.get_by_label('Gefecht',exact=True).select_option('team')
-    page.get_by_label('Schwierigkeit').select_option('easy')
+    page.get_by_label('Schwierigkeit').select_option(difficulty)
     button('Charakter wählen & starten').click()
     button('Weiter zur Waffenauswahl').click()
     start = page.locator('.loadout-start')
@@ -392,6 +396,7 @@ with sync_playwright() as pw:
     assert bots == (enemies or 7), bots
     activate_controls(page)
     assert page.evaluate('harbourQA.state.mapId') == map_id
+    assert page.evaluate('harbourQA.state.operation.config.difficulty') == difficulty
     print(map_id,'battle started with',bots,'bots',flush=True)
     exposed_cells=set()
     def approach(on_failure=None):
@@ -490,7 +495,7 @@ with sync_playwright() as pw:
                 profile_start=profile['startTime']/1000-navigation*1000
             (OUT/f'{map_id}-profile-timing.json').write_text(json.dumps(dict(start=profile_start,tasks=turn['longTasks'])))
             profiler.detach()
-        result=dict(bots=bots,width=width,height=height,quality=quality,renderer=renderer_info,entry=entry,turn=turn)
+        result=dict(bots=bots,width=width,height=height,quality=quality,difficulty=difficulty,renderer=renderer_info,entry=entry,turn=turn)
         suffix='-combat' if COMBAT_MOVEMENT else ''
         report=OUT/f'{map_id}-{bots}-bots-{width}x{height}{suffix}{quality_suffix}.json'
         report.write_text(json.dumps(result,indent=2))
@@ -518,7 +523,7 @@ with sync_playwright() as pw:
     run_id=time.time_ns()
     checkpoint=report_path.with_name(f'{report_path.stem}-{run_id}.partial.json')
     results = []
-    report=dict(bots=bots,width=width,height=height,quality=quality,renderer=renderer_info,
+    report=dict(bots=bots,width=width,height=height,quality=quality,difficulty=difficulty,renderer=renderer_info,
                 condition=condition or 'standard',runId=str(run_id),complete=False,results=results,routeFailures=[])
     def record_failure(stage,attempt,event):
         # Persist before any recovery, including the final exhausted attempt.
